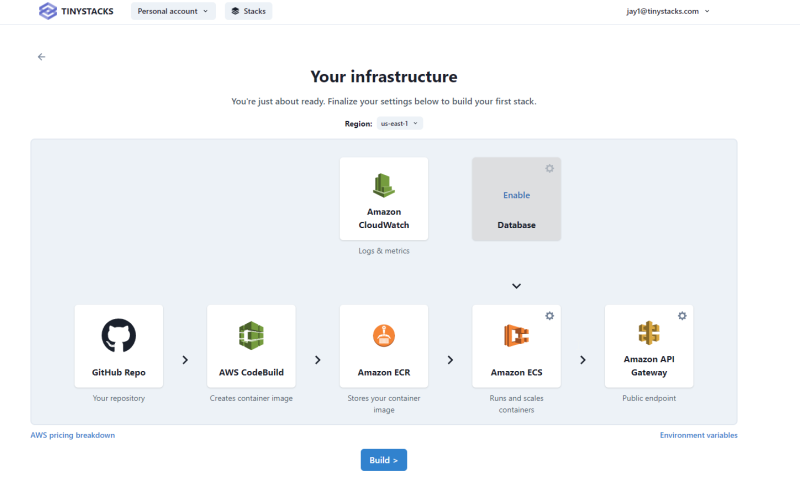
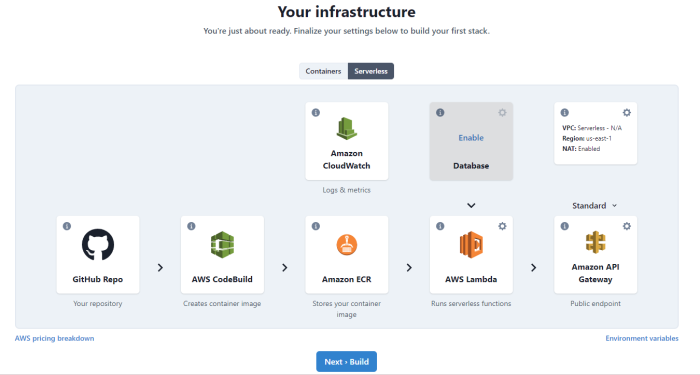
More new docs, db revamp, serverless

diff --git a/docs/architecture.md b/docs/architecture.md
@@ -1,39 +1,45 @@
 When you create a new stack with TinyStacks, we stand up a number of resources in your AWS account. This section describes how each AWS resource fits into your stack, as well as the average costs for each AWS resource. 
 
-### Standard Scale vs. Hyperscale
+### The role of containers
 
-Most cloud developers have the same goal: deploying scalable applications at the best price point. To help you meet these goals, TinyStacks provides support for two separate application patterns: 
-
-* **Standard scale** applications that serve less than one million requests a day. 
-* **Hyperscale applications** applications that exceed one million requests a day. 
-
-Both configurations will scale to meet user demand while avoiding site downtime. A standard scale configuration will be the most cost-efficient solution below the one million requests/day threshold. Once you exceed that threshold, a hyperscale configuration will yield the lowest spend. 
-
-In the explanation that follows, we will discuss the points where you are offered a choice between standard scale and hyperscale configurations and detail how this influences your overall stack costs. 
-
-### The Role of Containers
-
-The heart of a TinyStacks application is a Docker container, a lightweight virtualized operating system that runs on top of other operating systems such as Linux or Windows. 
+A Docker container is a lightweight virtualized operating system that runs on top of other operating systems such as Linux or Windows. 
 
 Before Docker, deploying applications at scale was fraught with difficulty. To run successfully, an application requires the correct configuration - the right version of its programming language runtime, shared libraries, and local state (environment variables, file system permissions, etc.). But system administrators were often forced to deploy applications across multiple servers with mismatched configurations. 
 
 Docker simplifies deployment by packaging an application in a virtualized operating system that contains everything the application needs to run successfully, virtually eliminating the dependency issue. Once an application is verified to run successfully in its container, you can deploy as many running copies as you need to support your users at scale. You can also avoid bloat by shipping the application with **exactly** the dependencies it needs and nothing more. 
 
-TinyStacks can deploy your Dockerized application easily. (If your application isn’t Dockerized yet, no to worry -  we have guides to assist you.) To run your container, we take advantage of two features in AWS: 
+### Two ways to run your application
 
-**Amazon Elastic Container Registry (ECR)** facilitates the storage and retrieval of Docker containers. Storing your Docker images in Amazon ECR makes it easy to deploy running instances of the image. It also provides a historical repository of images that simplifies version rollback. 
+TinyStacks stores your built application as a container in 
+**Amazon Elastic Container Registry (ECR)**. Storing your Docker images in Amazon ECR makes it easy to deploy running instances of the image. It also provides a historical repository of images that simplifies version rollback. 
 
-**Amazon Elastic Container Service (ECS)** is a container orchestration service that enables running Docker containers quickly and easily. Containers can be run on a set of virtual machines (a cluster) that you run and manage in your own account. Alternatively, they may be run using [AWS Fargate](https://aws.amazon.com/fargate), a serverless component of Amazon ECS that runs containers on computing capacity managed by AWS. For most deployments, TinyStacks manages its own ECS clusters on behalf of our customers. 
+From there, you have a choice as to how to deploy your application. 
+
+#### Serverless 
+
+A "serverless" application is one that doesn't require you to provision computing resources (such as Amazon EC2 instances) in your own AWS account. Instead, AWS simply takes your code (in this case, packaged as a Docker container) and runs it on an available computing instance that it maintains for you behind the scenes. 
+
+TinyStacks serverless stacks run your application using AWS's original serverless technology, <a href="https://aws.amazon.com/lambda/" target="_blank">AWS Lambda</a>. Serverless is a great option for pre-production stacks (dev stacks) as well as for production applications with bursting usage patterns - i.e., apps with punctuated periods of high and low activity.
+
+For more information, see [Serverless](serverless.md).
+
+#### Elastic Container Service (ECS)
+
+ECS is a container orchestration service that enables running Docker containers quickly and easily. Containers can be run on a set of virtual machines (a cluster) that you run and manage in your own account. Alternatively, they may be run using [AWS Fargate](https://aws.amazon.com/fargate), a serverless component of Amazon ECS that runs containers on computing capacity managed by AWS. For most deployments, TinyStacks manages its own ECS clusters on behalf of our customers. 
 
 For more information on how to control cluster configuration and scaling, see [Compute](compute.md).
 
-### Architectural Components
+### Architectural components
 
 A stack consists of an application written on a specific application framework (such as Express, Flask, Django, Spring, etc.) packaged inside of a Docker container. TinyStacks creates the necessary architecture inside of your AWS account to run this Dockerized application in a scalable and highly available architecture on AWS. 
 
-The following diagram shows the major architectural components in a stack. 
+The following diagram shows the major architectural components in a stack for a container architecture:
 
-![TinyStacks - architectural diagram](img/architecture-diagram.png)
+![TinyStacks - architectural diagram for container apps](img/arch-diagram-containers.png)
+
+Following are the components used for serverless architectures: 
+
+![TinyStacks - architectural diagram for serverless apps](img/arch-diagram-serverless.png)
 
 **[GitHub](https://github.com)**. A source code repository application based on the source control program Git. Stores the code for your application as well as some ancillary files needed in the stack deployment process. (TinyStacks also supports using [GitLab](https://about.gitlab.com/) as one’s repository.)
 
@@ -45,11 +51,13 @@ The following diagram shows the major architectural components in a stack.
 
 **[Amazon Elastic Container Service (ECS)](https://aws.amazon.com/ecs/)**. Docker container orchestration service. Runs the latest version of the application. 
 
+**[AWS Lambda](https://aws.amazon.com/lambda/)**. Serverless execution technology for running code directly in the AWS cloud without standing up compute directly in your AWS account. 
+
 **[Amazon CloudWatch](https://aws.amazon.com/cloudwatch/)**. Amazon’s metrics, monitoring, and alerting service. Provides some basic alerts around application health and build/release status. 
 
 **[Amazon API Gateway](https://aws.amazon.com/api-gateway/)**. A service for creating managed Application Programming Interfaces (API) at scale. Creates endpoints to the API functions defined by the application residing in the Docker container. 
 
-**[Amazon Application Load Balancer]()**. An alternative to API Gateway that is more suitable for applications serving over one million requests/month. 
+**[Amazon Application Load Balancer](https://docs.aws.amazon.com/elasticloadbalancing/latest/application/introduction.html)**. An alternative to API Gateway that is more suitable for applications serving over one million requests/month. 
 
 ### Networking
 
@@ -57,9 +65,9 @@ AWS resources run in virtual networks called Virtual Private Clouds (VPCs). Tiny
 
 For more information, see [Networking](networking.md).
 
-### Application Flow
+### Application flow
 
-### GitHub Stack Creation
+### GitHub stack creation
 
 When you create a new stack in TinyStacks, you can choose whether to use a starter project or use an existing project already defined in your GitHub account. 
 
@@ -81,7 +89,7 @@ Your GitHub repository is connected to an AWS CodePipeline project. TinyStacks u
 
 When you create a stack, you specify which branch of your GitHub repository you wish to connect to your AWS CodePipeline project. Whenever you commit a change to this branch, an AWS Lambda function does a full clone of the repository, creates a new ZIP file for the application, and uploads it to an Amazon S3 bucket. This change to the key in Amazon S3 triggers AWS CodePipeline to build and deploy your latest changes. 
 
-#### Pushing Changes to Amazon ECR and Amazon ECS
+#### Pushing changes to Amazon ECR and Amazon ECS
 
 Your running application is hosted in Amazon ECS using an image stored in an Amazon ECR registry. TinyStacks creates both of these resources for you when it stands up your stack. 
 
@@ -99,7 +107,7 @@ Deployments through ECR and ECS are driven by your AWS CodePipeline project. Thi
 
 The output of both of these projects is available in the AWS CodePipeline console. TinyStacks also stores this output in Amazon CloudWatch Logs.
 
-#### Managed API Endpoints
+#### Managed API endpoints
 
 By default, your Amazon ECS container is hosted on an instance in a public subnet. However, the instance itself does not have a public IP address. TinyStacks uses Amazon API Gateway or Application Load Balancer to provide a publicly accessible endpoint onto your container’s REST API methods. 
 
@@ -107,11 +115,11 @@ Amazon API Gateway provides you with fine-grained control over your REST API wit
 
 When you create a stack, you have a choice to use either API Gateway or Application Load Balancer. For more details on the differences, which to choose, and how this effects your application, see [Load Balancers](load-balancers.md). 
 
-#### Amazon CloudWatch for Auto Scaling
+#### Amazon CloudWatch for auto scaling
 
 TinyStacks uses Amazon CloudWatch to set up metrics and alerts to help scale out and scale in your application in proportion to the traffic it's receiving. For more information, see [Autoscaling](autoscaling.md).
 
-### Cost of a TinyStacks Stack
+### Cost of a TinyStacks stack
 
 *Note: Prices based on pricing of services in the US East (Virginia) data center as of July 2021. Pricing is subject to change without notice. Prices do not include any relevant taxes.*
 
@@ -124,7 +132,7 @@ Note that your actual costs may vary based on a couple of factors:
 
 As end user usage of your application increases, costs will increase concomitantly. This is because the cloud services that support your application will automatically scale up and out to meet the increased demand, thus using additional computing resources. The two factors driving costs are the amount of traffic your application handles and the number of virtual machines required in your Amazon ECS cluster.
 
-#### Traffic Costs
+#### Traffic costs
 
 TinyStacks supports both standard scale (using Amazon API Gateway) and hyperscale (using Application Load Balancer) configurations. Your costs will scale differently on each configuration as your usage increases. In general, a hyperscale configuration will prove more cost-effective at a volume of 500,000 or more application requests per month.
 
@@ -143,7 +151,7 @@ For example, say that your application is receiving an average of 10,000 new con
 
 Note that, in the above example, an application using API Gateway would be serving around 432 million connections per month for a total additional cost of $432/month. This makes it clear how much more economical it is to use Application Load Balancer when running at hyperscale.
 
-#### Amazon ECS Cluster Costs
+#### Amazon ECS cluster costs
 
 All Docker containers are hosted in an Amazon ECS cluster in your AWS account. An ECS cluster contains one or more instances of an Amazon EC2 virtual machine. By default, Tinystacks runs once EC2 instance in your cluster. As demand on your application grows, we will scale out and create a new cluster instance when the average CPU utilization across all cluster instances exceeds 70% for five minutes or longer. 
 

diff --git a/docs/existing.md b/docs/existing.md
@@ -4,41 +4,9 @@ In our guide to [creating your first stack](create-stack.md), we showed you how 
 
 Before you begin this guide, make sure you have set up your AWS and Git service connections as outlined in [Configure AWS and Git service connections](service-connections.md).
 
-## Configure Git connection
-
-When you first log in to TinyStacks, you’ll need to wire up a supported Git repository account as well as an AWS account. TinyStacks supports using Git repositories hosted on GitHub or GitLab. 
-
-![TinyStacks Create First Stack screen](img/tinystacks-create-1.png)
-
-Select which Git service you plan to use: GitHub or Gitlab. A separate window will open. If you are not logged in to your selected service, you will be prompted to log in now. 
-
-![TinyStacks add git account prompt](img/tinystacks-create-2.png)
-
-Once logged in, you will need to grant authorization for TinyStacks to access your GitHub or GitLab account. This will allow us to add a repository to your account (if you use one of our starter projects) or read an existing repository (if you use your own project). 
-
-## Configure AWS account 
-
-Once you've authorized your Git account, you will be prompted to authorize an AWS account. This account will host all of the cloud resources required by your application. 
-
-![TinyStacks connect to AWS prompt](img/tinystacks-create-3.png)
-
-If you have not logged in to your AWS account recently, you will be prompted to do so. 
-
-Once you have logged in to AWS, you will see the following screen, which prompts you to create an AWS CloudFormation stack in your AWS account. This step is **necessary** in order to proceed and fully connect your account. This CloudFormation template will create an AWS Identity and Access Management (IAM) role that TinyStacks will assume in order to create resources in your account.
-
-![Create TinyStacks role in AWS account](img/tinystacks-create-4.png)
-
-(*Note*: Some elements of the screen above have been blurred out for security reasons.)
-
-To create this stack, select the box **I acknowledge that AWS CloudFormation might create IAM resources**. Then, click the **Create Stack** button. 
-
-After creating the stack, tab back to the previous tab containing the TinyStacks window. Once the stack has completed creating, TinyStacks will automatically detect this and move you to the next step in the stack creation process. Once you see the screen below, you can proceed. 
-
-![TinyStacks - select a project](img/tinystacks-create-5.png)
-
 ## Create a new stack
 
-Next, you'll be prompted to select a project. You can either select a TinyStacks starter project or use your own project. For this guide, we'll be using your own project. 
+After you configure your connections, you'll be prompted to select a project. You can either select a TinyStacks starter project or use your own project. For this guide, we'll be using your own project. 
 
 Select **My projects**. You should see a list of all of the repositories available in your Git account. Find the repository whose code you are going to deploy and click **Prepare to deploy**.
 
@@ -87,22 +55,36 @@ There are two other settings on this page you can optionally configure:
 
 When you're done, click **Next**.
 
-## Finalizing deployment options
+## Choosing serverless or container deployment
 
-On the next screen, you will be asked to review your infrastructure before launching your application on TinyStacks. Click **Review infrastructure** to see the infrastructure that TinyStacks will create in your AWS account and to set any additional options. 
+You have one more step to go and then you're ready to launch your stack! After clicking **Deploy**, you'll see the screen below. Here, you need to select whether to launch your application using either serverless or container architecture. 
 
-The options on this page are the same ones [discussed in the guide to creating your first stack](create-stack.md). Please review that document for a full description of the available options. 
+![TinyStacks - configure stack](img/tinystacks-create-8.png)
 
-For users launching an existing application, the Review Infrastructure page is a good time to consider what runtime configuration your application requires to run successfully. In particular, you should consider: 
+To keep costs low for this initial walkthrough, select **Serverless**. (For more information on which architecture to choose for production applications, see (Architecture)[architecture.md] and (Serverless)[serverless.md].)
 
-* **Data storage**. You can create a new Postgres database in the **Databases** tile. If you need to use a different database, you can create or import an existing database into an Amazon RDS instance and then select it on this screen. 
-* **Environment variables**. If you're using a database outside of AWS or need to specify additional configuration information for your application, use the Environment Variables link on this page to define simple name-value pairs. These variables will be exposed as Linux environment variables to your application running in its Docker container.
+## Further customizing your deployment
+
+This screen visualizes all of the AWS resources that TinyStacks will use or create on your behalf. These components and what they contribute to your stack are discussed in detail [in our architectural guide](architecture.md). Briefly, they include: 
+
+* Your **Git repo** (either GitHub or GitLab) that holds your application code. 
+* **AWS CodeBuild** to build and deploy your project as a Docker container. 
+* An **Amazon Elastic Container Repository (ECR) repo** for storing your Docker container's versions. 
+* An **Amazon Elastic Container Service (ECS) cluster** for hosting your running Docker containers. 
+* **Amazon API Gateway** for routing traffic to your application's exposed endpoints. 
+* **Amazon CloudWatch** for monitoring performance and storing application logs.
+* An optional **database** for storing application data. 
+
+Additionally, you can see and configure several additional options: 
+
+* The **AWS pricing breakdown** gives you a sense of what you'll per month for your stack in its current configuration. 
+* You can define **Environment variables** as name-value pairs that will be exposed as environment variables to your running application's Docker container. 
 
 If a tile has a gear icon in the upper right corner, you can click it to configure advanced options for that tile. Configurable options include the following. 
 
-### Configure Your VPC
+### Configure Your VPC (optional for serverless)
 
-By default, TinyStacks will create a new, secure VPC with three public and three isolated subnets. Your application will run into the isolated subnets. 
+If you choose container architecture, TinyStacks will by default create a new, secure VPC with three public and three isolated subnets. Your application will run into the isolated subnets. 
 
 ![TinyStacks - configure VPC](img/tinystacks-vpc-config.png)
 
@@ -114,13 +96,21 @@ You can also option to turn the isolated subnets into private subnets by adding 
 
 ![TinyStacks - configure VPC](img/tinystacks-vpc-nat-gateway.png)
 
+Note that serverless applications, by default, do not run in a VPC. You can, however, opt to run them in a VPC that's already defined in your AWS account. 
+
 ### Add a Database
 
 Click **Enable** to create an Amazon RDS Postgres database for your account. Use the settings option to select an existing database instead and to configure other database-related options. 
 
-### Amazon ECS 
+### Amazon ECS (container architecture only)
 
-Configure build and scale settings for your Amazon ECS cluster, such as the size of the Amazon EC2 instances used in your cluster. 
+Configure build and scale settings for your Amazon ECS cluster, such as the size of the Amazon EC2 instances used in your cluster. (If you're not familiar with these settings, you can leave them as the default for now.)
+
+### AWS Lambda (serverless architecture only) 
+
+Configure scale settings for your AWS Lambda function, including the memory available to your application and the runtime timeout setting. (If you're not familiar with these settings, you can leave them as the default for now.)
+
+![TinyStacks - select serverless](img/serverless-settings.png)
 
 ### Front-End Routing 
 

diff --git a/docs/database.md b/docs/database.md
@@ -27,9 +27,32 @@ The variables pushed include:
 
 Your application code should be able to access these values the same as it would any other environment variable (e.g., <a href="https://nodejs.dev/learn/how-to-read-environment-variables-from-nodejs" target="_blank">`process.env` in Node.js</a> or <a href="https://www.nylas.com/blog/making-use-of-environment-variables-in-python/" target="_blank">`os.environ.get()` in Python</a>).
 
-### Connecting to your Postgres database from outside of your application
 
-On top of pushing Postgres database connection information to your application as runtime variables, Tinystacks stores your credentials securely in your AWS account using <a href="https://console.aws.amazon.com/secretsmanager/" target="_blank">AWS Secrets Manager</a>. You can see these secrets by navigating to AWS Secrets Manager in your AWS account. 
+### Using a bastion host
+
+By default, your Postgres database is only accessible [from the same VPC](networking.md) in which your application runs. However, many teams will want to connect directly to their databases to run queries with tools like MySQL Workbench. 
+
+To enable these scenarios, you need to create <a href="https://aws.amazon.com/premiumsupport/knowledge-center/rds-connect-using-bastion-host-linux/" target="_blank">a **bastion host**</a>. The bastion host is an Amazon EC2 instance that sits in your VPC and creates a secure SSH tunnel so you can connect to your database. The SSH connection requires using public key cryptography, which prevents unauthorized users from connecting to your bastion and attempting to access your database. 
+
+#### Creating a bastion host
+
+You can create a bastion host when you initially launch your stack and configure your Postgres database. If you didn't add a database to your stack yet, you can navigate to Stack Settings for your stack and add it under **Stage settings** -> **Database**.
+
+#### Connecting to your bastion host 
+
+To connect to your database, navigate to your stack's **Stack settings** page. Under **Stage settings** -> **Database**, you'll see a box labeled **Bastion connection information**. Here, you can download the private key you'll need to connect to your database. 
+
+![TinyStacks - see secrets for Postgres](img/db-bastion-key-download.png)
+
+Once downloaded, place your private key somewhere on your computer where you can reference it easily. Make sure you secure the machine on which the private key exists; anyone with access to this key and your bastion's connection information could use this to attempt to gain access to your database. 
+
+The command displayed in this box will enable you to connect to your bastion via the command line, where you can use command-line Postgres tools to query your database. If you prefer to use a visual tool, like MySQL Workbench, <a href="https://dev.mysql.com/doc/workbench/en/wb-mysql-connections-methods-ssh.html" target="_blank">you can configure the tool to connect to your database via an SSH tunnel</a> using your connection information and your SSH private key. Consult your tool's documentation for detailed instructions. 
+
+#### Accessing your database's credentials (username and password)
+
+You will, of course, still need your database's username and password to connect to it!
+
+Your Postgres database username and password are stored securely in your AWS account using <a href="https://console.aws.amazon.com/secretsmanager/" target="_blank">AWS Secrets Manager</a>. You can see these secrets by navigating to AWS Secrets Manager in your AWS account. 
 
 ![TinyStacks - see secrets for Postgres](img/tinystacks-secrets-1.jpg)
 
@@ -38,7 +61,7 @@ You can identify the correct secret for your application from the AWS Console in
 * The **Secret description** of the stack, which will contain the name you gave your stack at stack creation time. 
 * The tag **aws:cloudformation:stack-name**, which will also contain the name of your secret. 
 
-If you have multiple stages, you will have multiple secrets. You can distinguish them by the name of the secret, which will have the name of the stage pre-pended. In this example, since this is our Postgres database for our dev stage, it starts with te prefix `dev`. 
+If you have multiple stages, you will have multiple secrets. You can distinguish them by the name of the secret, which will have the name of the stage pre-pended. In this example, since this is our Postgres database for our dev stage, it starts with the prefix `dev`. 
 
 In the AWS Console, you can see the information stored in this secret by expanding the **Secret value** dropdown. There, you can see all of the information required to connect to your Postgres database. 
 

diff --git a/docs/create-stack.md b/docs/create-stack.md
@@ -20,11 +20,15 @@ On the next screen, you'll be prompted to give your project a name. Choose a sim
 
 ![TinyStacks - Enter a project name](img/tinystacks-create-7.png)
 
-## Customize your deployment
+## Choosing serverless or container deployment
 
-You have one more step to go and then you're ready to launch your stack! After clicking **Deploy**, you'll see the screen below, which enables you to fine-tune multiple settings for the first stage of your stack. 
+You have one more step to go and then you're ready to launch your stack! After clicking **Deploy**, you'll see the screen below. Here, you need to select whether to launch your application using either serverless or container architecture. 
 
 ![TinyStacks - configure stack](img/tinystacks-create-8.png)
+
+To keep costs low for this initial walkthrough, select **Serverless**. (For more information on which architecture to choose for production applications, see [Architecture](architecture.md) and [Serverless](serverless.md).)
+
+## Further customizing your deployment
 
 This screen visualizes all of the AWS resources that TinyStacks will use or create on your behalf. These components and what they contribute to your stack are discussed in detail [in our architectural guide](architecture.md). Briefly, they include: 
 
@@ -43,9 +47,9 @@ Additionally, you can see and configure several additional options:
 
 If a tile has a gear icon in the upper right corner, you can click it to configure advanced options for that tile. Configurable options include the following. 
 
-### Configure Your VPC
+### Configure Your VPC (optional for serverless)
 
-By default, TinyStacks will create a new, secure VPC with three public and three isolated subnets. Your application will run into the isolated subnets. 
+If you choose container architecture, TinyStacks will by default create a new, secure VPC with three public and three isolated subnets. Your application will run into the isolated subnets. 
 
 ![TinyStacks - configure VPC](img/tinystacks-vpc-config.png)
 
@@ -57,15 +61,23 @@ You can also option to turn the isolated subnets into private subnets by adding 
 
 ![TinyStacks - configure VPC](img/tinystacks-vpc-nat-gateway.png)
 
+Note that serverless applications, by default, do not run in a VPC. You can, however, opt to run them in a VPC that's already defined in your AWS account. 
+
 ### Add a Database
 
 Click **Enable** to create an Amazon RDS Postgres database for your account. Use the settings option to select an existing database instead and to configure other database-related options. 
 
-### Amazon ECS 
+### Amazon ECS (container architecture only)
 
-Configure build and scale settings for your Amazon ECS cluster, such as the size of the Amazon EC2 instances used in your cluster. 
+Configure build and scale settings for your Amazon ECS cluster, such as the size of the Amazon EC2 instances used in your cluster. (If you're not familiar with these settings, you can leave them as the default for now.)
 
 ![TinyStacks - configure ECS scale settings](img/create-stack-ecs-scale-settings.png)
+
+### AWS Lambda (serverless architecture only) 
+
+Configure scale settings for your AWS Lambda function, including the memory available to your application and the runtime timeout setting. (If you're not familiar with these settings, you can leave them as the default for now.)
+
+![TinyStacks - select serverless](img/serverless-settings.png)
 
 ### Front-End Routing 
 

diff --git a/docs/serverless.md b/docs/serverless.md
@@ -1,0 +1,31 @@
+With TinyStacks, you have the option to run your code as a serverless application through <a href="https://aws.amazon.com/lambda/" target="_blank">AWS Lambda</a>. Running serverless confers several benefits: 
+
+* It's cheaper for stacks or stages with low usage followed by large bursts of activity. With containers, an ECS cluster incurs a steady cost, as you are charged continuously for at least the minimum cluster capacity that you configured via TinyStacks. With Lambda, you're only charged for your code's actual execution time, which is measured on a per-millisecond basis.
+* It's faster. The first access on a Lambda application can sometimes take a few seconds to load, as Lambda must download your code for the first time. After this initial access, however, Lambda applications execute subsequent requests very quickly. 
+
+### Deploying a serverless stack
+
+To deploy a serverless stack, [create a new stack](create-stack.md) and, on the Review Infrastructure screen, select **Serverless** as your architecture near the top of the page.
+
+![TinyStacks - select serverless](img/serverless-architecture.png)
+
+Note that there is no way to convert an existing stack between container and serverless. If you have an application running on container architecture, you will need to launch a new stack to convert it to running serverless.
+
+### Configuring serverless architecture options
+
+Once you've selected Serverless, you can configure a few additional options. 
+
+#### Networking
+
+By default, your serverless application will not run in a [Virtual Private Cloud (VPC)](networking.md). You can change this by clicking the gear in the **Networking** box on this page and selecting an existing VPC from your AWS account.
+
+#### Configure Lambda scale settings
+
+You can click the gear in the **AWS Lambda** box to select scaling options for your Lambda function. 
+
+![TinyStacks - select serverless](img/serverless-settings.png)
+
+You can configure two options: 
+
+* **Memory**. The memory, in megabytes, allotted to your Lambda function. This should be large enough to run your containerized application. You can raise this to a maximum of 10,240 MB.
+* **Timeout**. How long your function can run without returning output to its caller before the connection is severed and no data returned. You should raise this value only if your function has a long initial start-up time, or is executing a long-running task. The maximum value is 900 seconds (15 minutes). 
